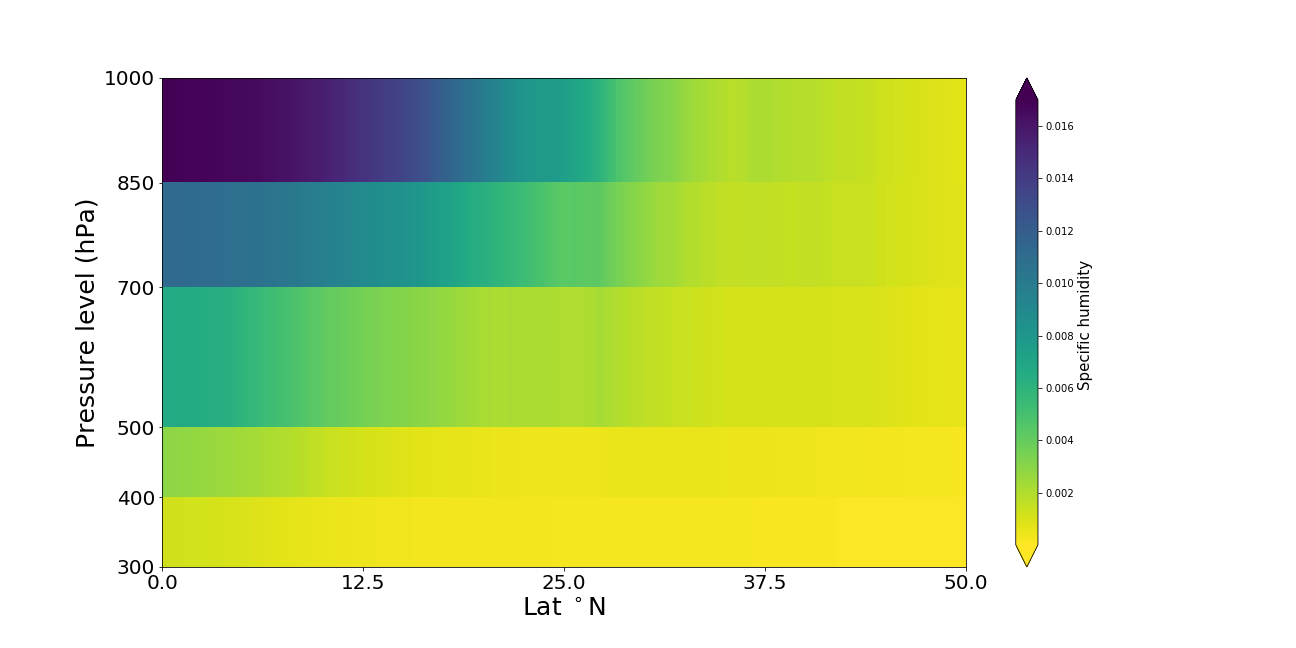
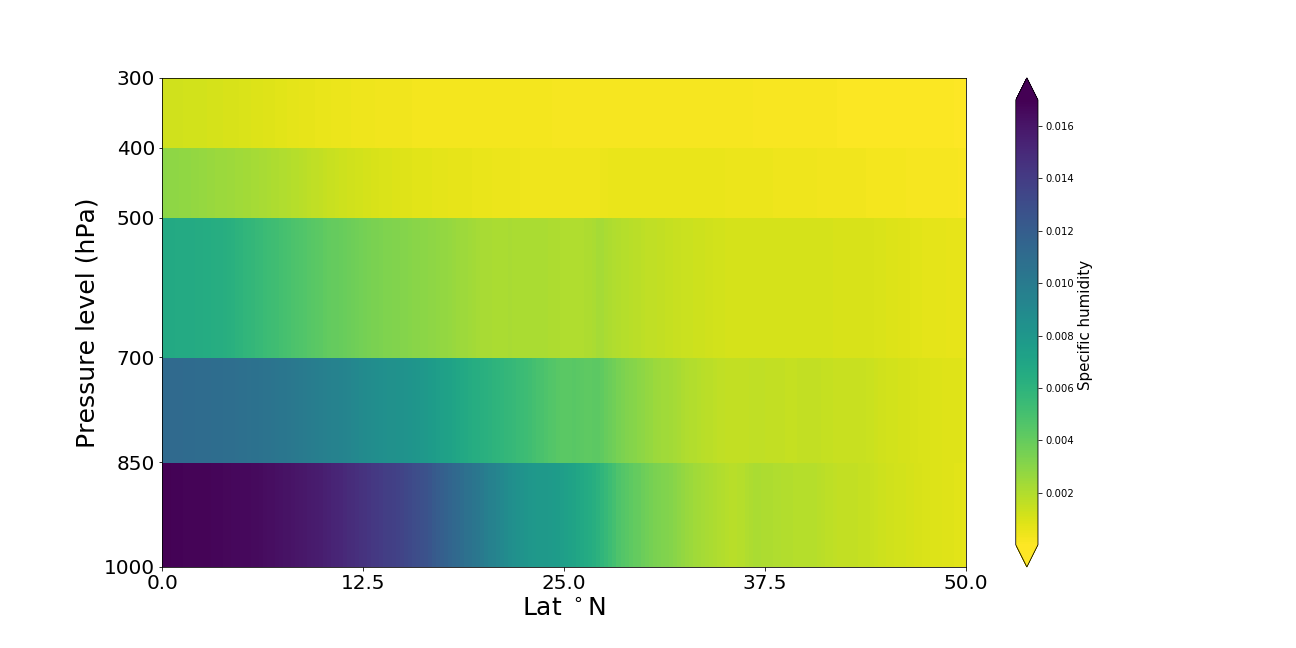
final hand in, tested package with Test Python Package Index

diff --git a/creampy/plotting.py b/creampy/plotting.py
@@ -424,6 +424,8 @@ def plot_vertical(coords, p_levels, var, varname, xaxis, unit = None, out = None
     # axis labels
     xlabels = np.linspace(int(np.nanmin(coords)), int(np.nanmax(coords)), 5)
     ylabels = p_levels
+    plt.gca().invert_yaxis()
+
     plt.xticks(xlabels, xlabels, fontsize=20)
     plt.yticks(ylabels,ylabels, fontsize=20)
 
